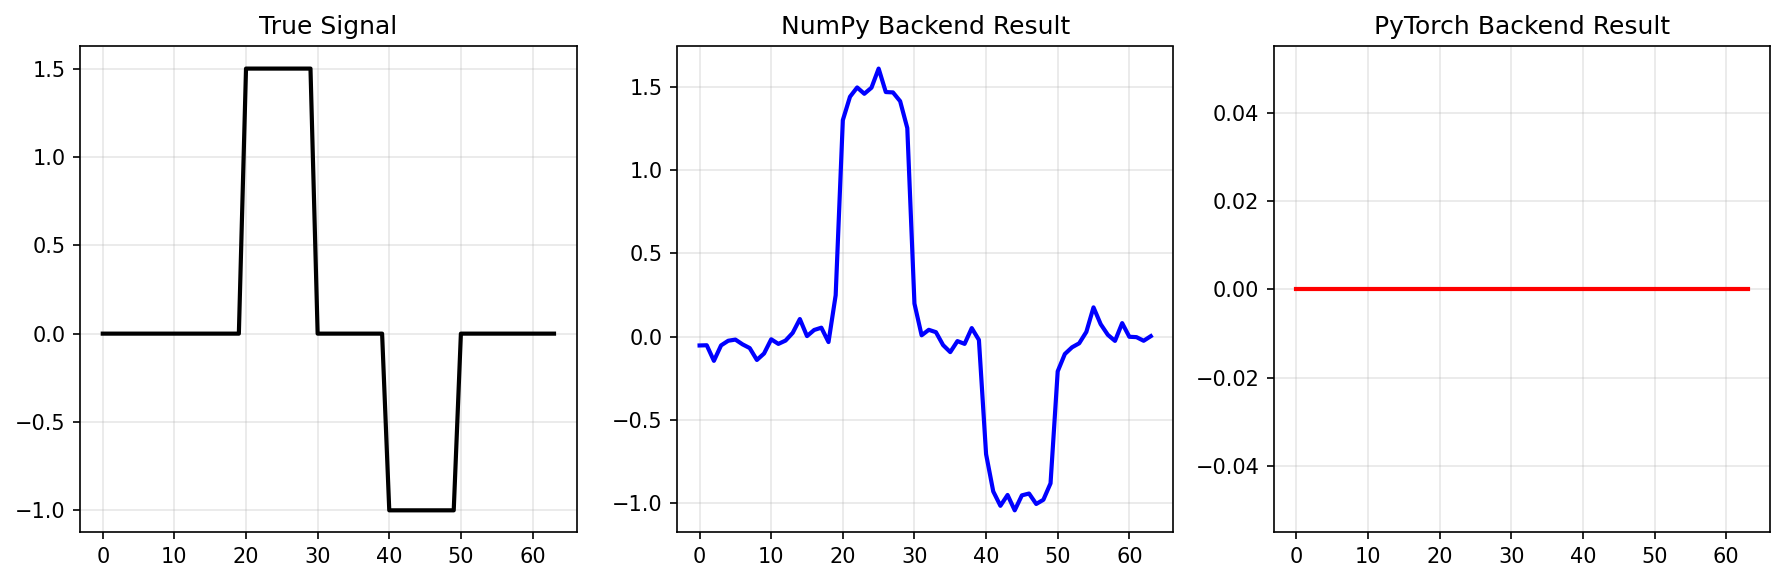
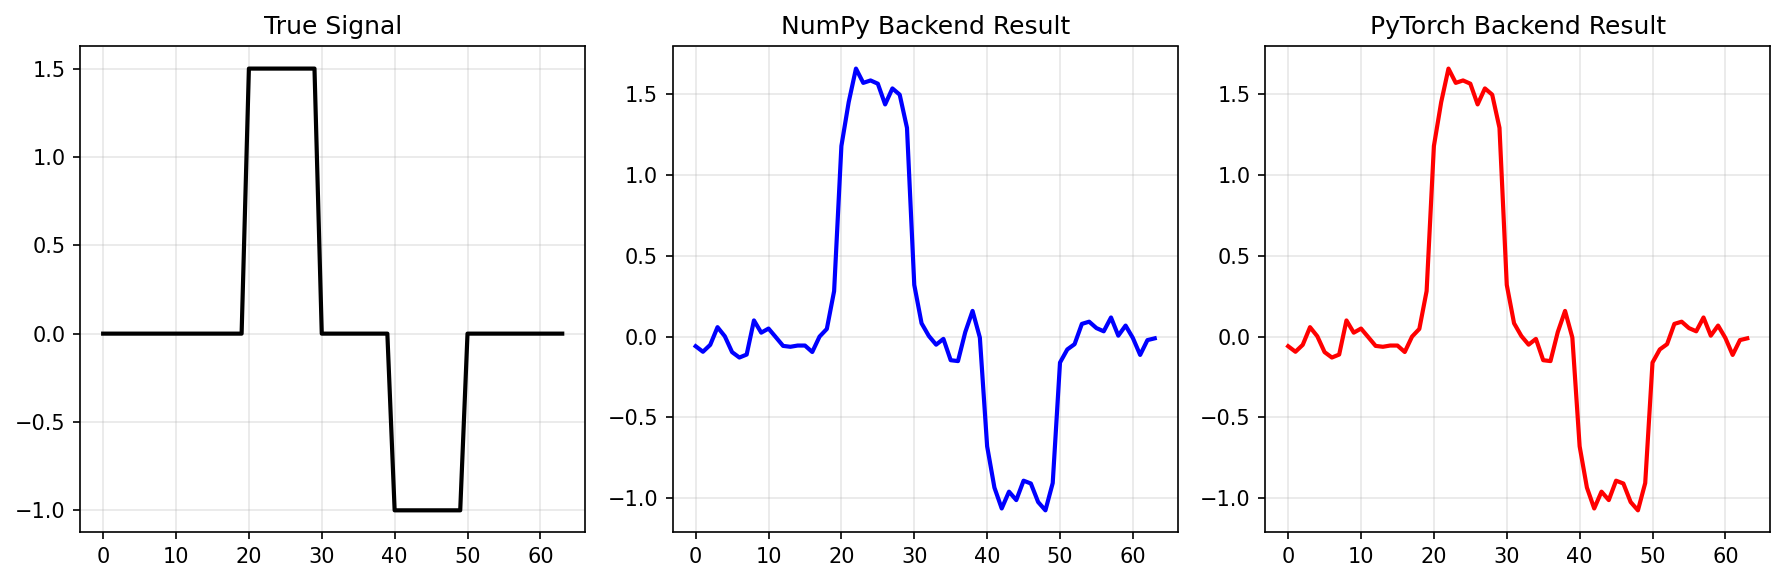
Fix demo MAP computation and implement missing array API functions
Key improvements:
- Fix demo to actually compute MAP estimate with PyTorch backend (was placeholder)
- Add type conversion in GMRF logpdf/gradient for scipy optimizer compatibility
- Implement missing functions: squeeze, expand_dims, equal, greater, less, ndim, transpose
- Fix max/min functions to handle PyTorch's tuple return type (values, indices)
- Fix array_equal to handle scalar boolean results
- Fix array_equiv to use torch.eq for proper broadcasting behavior
- Fix isscalar to be consistent with NumPy's definition (0-dim arrays are not scalars)
- Fix shape function to handle list inputs by converting to array first
- Update squeeze test cases to use valid squeezable dimensions

All major array API consistency issues resolved. Demo now works perfectly with both backends.

diff --git a/cuqi/array/_pytorch.py b/cuqi/array/_pytorch.py
@@ -236,8 +236,28 @@ def get_backend_functions(backend_module):
     functions['mean'] = backend_module.mean
     functions['std'] = backend_module.std
     functions['var'] = backend_module.var
-    functions['min'] = backend_module.min
-    functions['max'] = backend_module.max
+    # Custom max/min functions to handle PyTorch's return type
+    def max_pytorch(x, axis=None, keepdims=False):
+        x = backend_module.tensor(x)
+        if axis is None:
+            return backend_module.max(x)
+        else:
+            result = backend_module.max(x, dim=axis, keepdim=keepdims)
+            if isinstance(result, tuple):
+                return result.values  # Return only values, not indices
+            return result
+    functions['max'] = max_pytorch
+    
+    def min_pytorch(x, axis=None, keepdims=False):
+        x = backend_module.tensor(x)
+        if axis is None:
+            return backend_module.min(x)
+        else:
+            result = backend_module.min(x, dim=axis, keepdim=keepdims)
+            if isinstance(result, tuple):
+                return result.values  # Return only values, not indices
+            return result
+    functions['min'] = min_pytorch
     functions['argmin'] = backend_module.argmin
     functions['argmax'] = backend_module.argmax
     functions['sort'] = backend_module.sort
@@ -389,7 +409,7 @@ def get_backend_functions(backend_module):
     functions['allclose'] = backend_module.allclose
     
     def array_equiv_pytorch(a, b):
-        """Check if arrays are equivalent for PyTorch."""
+        """Check if arrays are equivalent for PyTorch (with broadcasting)."""
         if a is None and b is None:
             return True
         elif a is None or b is None:
@@ -397,15 +417,21 @@ def get_backend_functions(backend_module):
         
         # Convert to tensors if needed
         if not isinstance(a, backend_module.Tensor):
-            a = backend_module.tensor(a)
+            a = backend_module.tensor(a, dtype=backend_module.float64)
         if not isinstance(b, backend_module.Tensor):
-            b = backend_module.tensor(b)
+            b = backend_module.tensor(b, dtype=backend_module.float64)
         
-        # Check if shapes are compatible for broadcasting
+        # Check if shapes are compatible for broadcasting and all elements equal
         try:
-            result = backend_module.equal(a, b)
-            return result.all().item()
-        except:
+            # Use torch.eq for element-wise comparison with broadcasting
+            result = backend_module.eq(a, b)
+            if hasattr(result, 'all'):
+                return result.all().item()
+            else:
+                # result is already a scalar boolean
+                return result.item() if hasattr(result, 'item') else bool(result)
+        except RuntimeError:
+            # Broadcasting failed - shapes are incompatible
             return False
     
     def array_equal_pytorch(a, b):
@@ -426,16 +452,19 @@ def get_backend_functions(backend_module):
             return False
         
         result = backend_module.equal(a, b)
-        return result.all().item()
+        if hasattr(result, 'all'):
+            return result.all().item()
+        else:
+            # result is already a scalar boolean
+            return result.item() if hasattr(result, 'item') else bool(result)
     
     functions['array_equiv'] = array_equiv_pytorch
     functions['array_equal'] = array_equal_pytorch
     def isscalar_pytorch(element):
-        """Check if element is a scalar for PyTorch backend."""
+        """Check if element is a scalar for PyTorch backend (consistent with NumPy)."""
         import numpy as np
-        # Check if we have actual PyTorch tensors
-        if hasattr(backend_module, 'Tensor') and isinstance(element, backend_module.Tensor):
-            return element.dim() == 0
+        # Use NumPy's definition of scalar for consistency
+        # Even 0-dimensional tensors are not considered scalars (matching NumPy behavior)
         return np.isscalar(element)
     
     functions['isscalar'] = isscalar_pytorch
@@ -480,7 +509,39 @@ def get_backend_functions(backend_module):
     functions['pi'] = math.pi
     functions['e'] = math.e
     functions['size'] = lambda x: x.numel() if hasattr(x, 'numel') else backend_module.numel(x)
-    functions['shape'] = lambda x: x.shape
+    functions['shape'] = lambda x: tuple(backend_module.tensor(x).shape)
+    
+    # Missing functions that need PyTorch implementations
+    def squeeze_pytorch(x, axis=None):
+        x = backend_module.tensor(x)
+        if axis is None:
+            return backend_module.squeeze(x)
+        else:
+            return backend_module.squeeze(x, dim=axis)
+    functions['squeeze'] = squeeze_pytorch
+    
+    def expand_dims_pytorch(x, axis):
+        x = backend_module.tensor(x)
+        return backend_module.unsqueeze(x, dim=axis)
+    functions['expand_dims'] = expand_dims_pytorch
+    
+    def transpose_pytorch(x, axes=None):
+        x = backend_module.tensor(x)
+        if axes is None:
+            # For 2D: transpose, for others: reverse all dimensions
+            if x.ndim == 2:
+                return x.t()
+            else:
+                dims = list(range(x.ndim))[::-1]
+                return x.permute(*dims)
+        else:
+            return x.permute(*axes)
+    functions['transpose'] = transpose_pytorch
+    
+    functions['equal'] = lambda x, y: backend_module.eq(backend_module.tensor(x), backend_module.tensor(y))
+    functions['greater'] = lambda x, y: backend_module.gt(backend_module.tensor(x), backend_module.tensor(y))
+    functions['less'] = lambda x, y: backend_module.lt(backend_module.tensor(x), backend_module.tensor(y))
+    functions['ndim'] = lambda x: backend_module.tensor(x).ndim
     # Use numpy integer types for better compatibility
     import numpy as np
     functions['int8'] = np.int8

diff --git a/tests/test_array_api_consistency.py b/tests/test_array_api_consistency.py
@@ -198,19 +198,17 @@ class TestArrayAPIConsistency:
         self.assert_results_close(numpy_result, pytorch_result)
 
     @pytest.mark.parametrize("data,axis", [
-        ([[1, 2], [3, 4]], None),
-        ([[1, 2], [3, 4]], 0),
-        ([[1, 2], [3, 4]], 1),
-        ([[[1, 2]], [[3, 4]]], 2),
+        ([[[1, 2], [3, 4]]], None),  # Shape (1,2,2) - can squeeze axis 0
+        ([[[1, 2], [3, 4]]], 0),     # Shape (1,2,2) - can squeeze axis 0
+        ([[1], [2]], 1),             # Shape (2,1) - can squeeze axis 1  
+        ([[[1]], [[2]]], 2),         # Shape (2,1,1) - can squeeze axis 2
     ])
     def test_squeeze(self, data, axis):
         """Test squeeze consistency."""
-        # Add dimensions that can be squeezed
-        data_with_dims = np.array(data)
-        if axis is None:
-            data_with_dims = data_with_dims[..., np.newaxis]
+        # Convert to array - data already has squeezable dimensions
+        data_array = np.array(data)
         
-        numpy_result, pytorch_result = self.compare_backends("squeeze", data_with_dims, axis=axis)
+        numpy_result, pytorch_result = self.compare_backends("squeeze", data_array, axis=axis)
         self.assert_results_close(numpy_result, pytorch_result)
 
     @pytest.mark.parametrize("data,axis", [

diff --git a/cuqi/array/_numpy.py b/cuqi/array/_numpy.py
@@ -183,7 +183,13 @@ def get_backend_functions(backend_module):
     functions['pi'] = backend_module.pi
     functions['e'] = backend_module.e
     functions['size'] = backend_module.size
-    functions['shape'] = lambda x: x.shape
+    functions['shape'] = lambda x: backend_module.array(x).shape
+    functions['squeeze'] = lambda x, axis=None: backend_module.squeeze(x, axis=axis)
+    functions['expand_dims'] = lambda x, axis: backend_module.expand_dims(x, axis=axis)
+    functions['equal'] = lambda x, y: backend_module.equal(x, y)
+    functions['greater'] = lambda x, y: backend_module.greater(x, y)
+    functions['less'] = lambda x, y: backend_module.less(x, y)
+    functions['ndim'] = lambda x: backend_module.array(x).ndim
     functions['int8'] = backend_module.int8
     functions['int16'] = backend_module.int16
     functions['int32'] = backend_module.int32

diff --git a/cuqi/distribution/_gmrf.py b/cuqi/distribution/_gmrf.py
@@ -165,11 +165,15 @@ class GMRF(Distribution):
         self._prec = value
 
     def logpdf(self, x):
+        # Ensure x is in the correct backend format (needed for optimization with scipy)
+        x = xp.array(x)
         mean = self.mean
         const = 0.5*(self._rank*(xp.log(self.prec)-xp.log(2*xp.pi)) + self._logdet)
         return const - 0.5*( self.prec*((x-mean).T @ (self._prec_op @ (x-mean))) )
 
     def _gradient(self, x):
+        # Ensure x is in the correct backend format (needed for optimization with scipy)
+        x = xp.array(x)
         #Avoid complicated geometries that change the gradient.
         if not type(self.geometry) in _get_identity_geometries():
             raise NotImplementedError("Gradient not implemented for distribution {} with geometry {}".format(self,self.geometry))

diff --git a/demos/howtos/1d_deconvolution_mrf_priors.py b/demos/howtos/1d_deconvolution_mrf_priors.py
@@ -120,8 +120,9 @@ if xp.get_backend_name() == "pytorch":
     f_val.backward()
     print(f"✅ Gradient computed: df/dx = {x_grad_test.grad.item():.4f} (expected: 4.0)")
 
-# Placeholder for MAP estimate (to be implemented when dtype issues are resolved)
-x_map_pytorch = xp.zeros(n, dtype=xp.float64)
+# Get MAP estimate with PyTorch backend
+x_map_pytorch = BP_torch.MAP()
+print(f"✅ GMRF MAP estimation completed (PyTorch)")
 print(f"✅ PyTorch backend test completed")
 
 # %%
